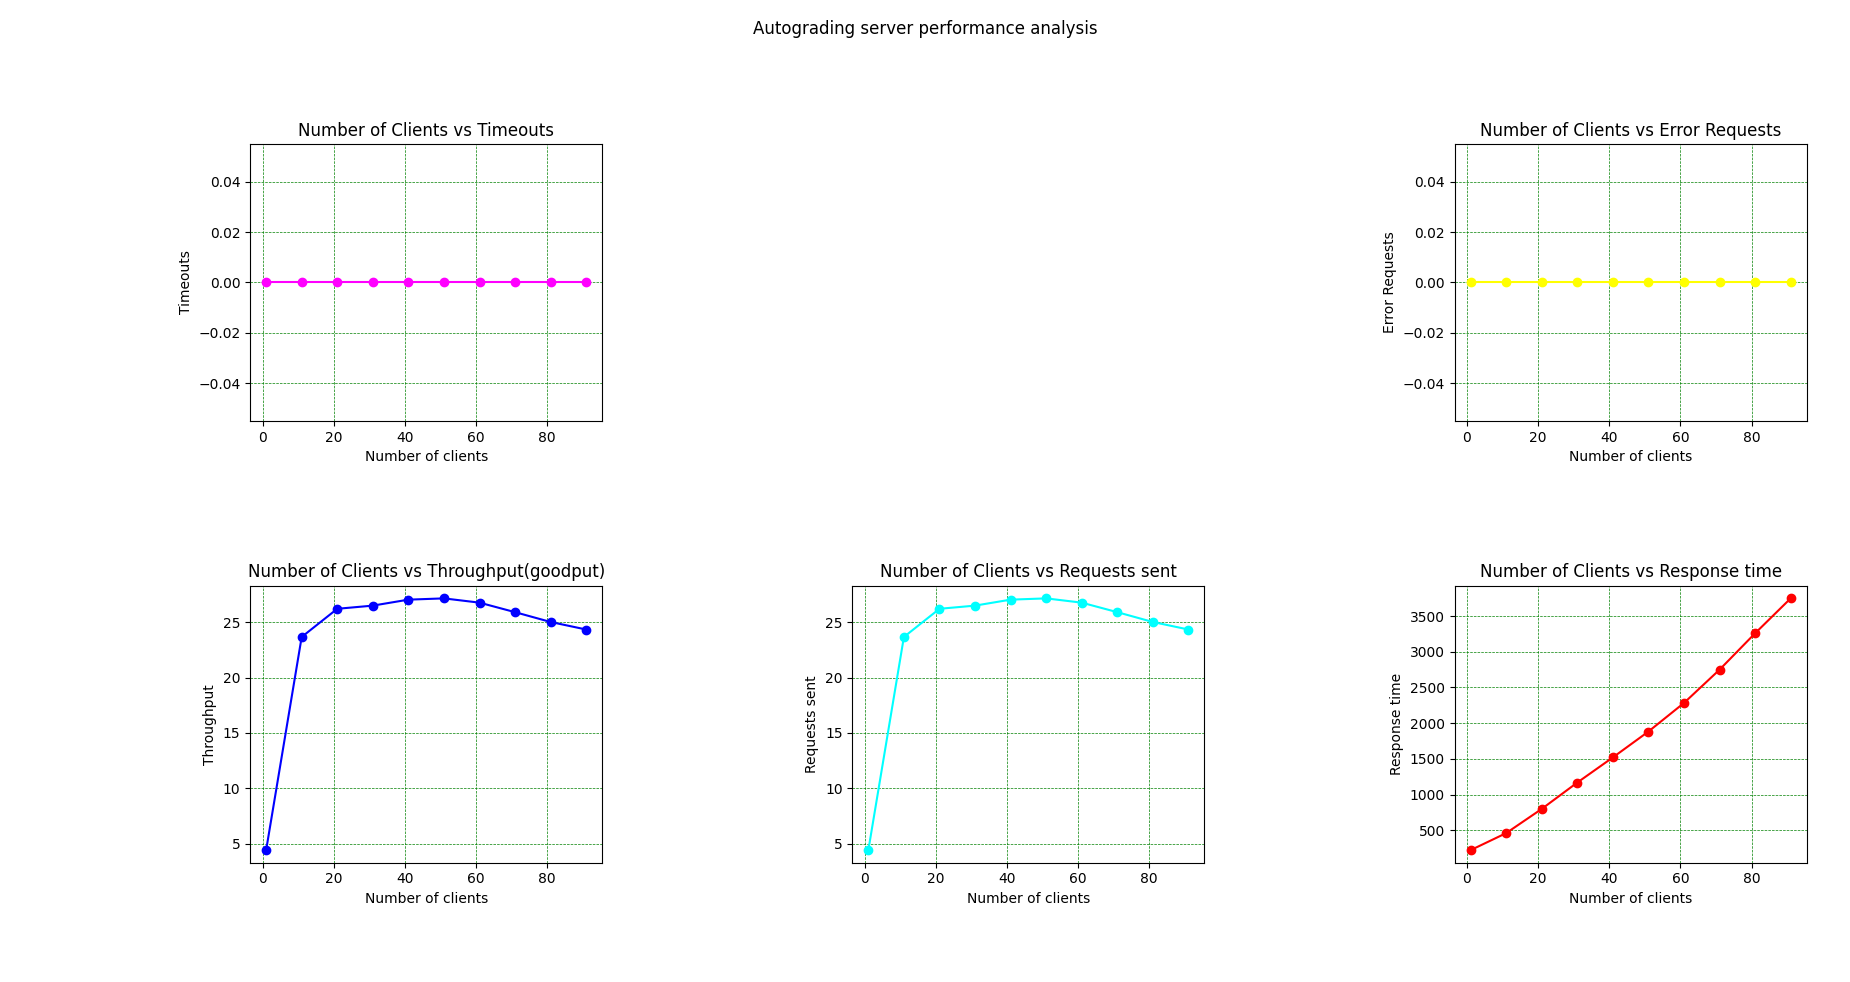
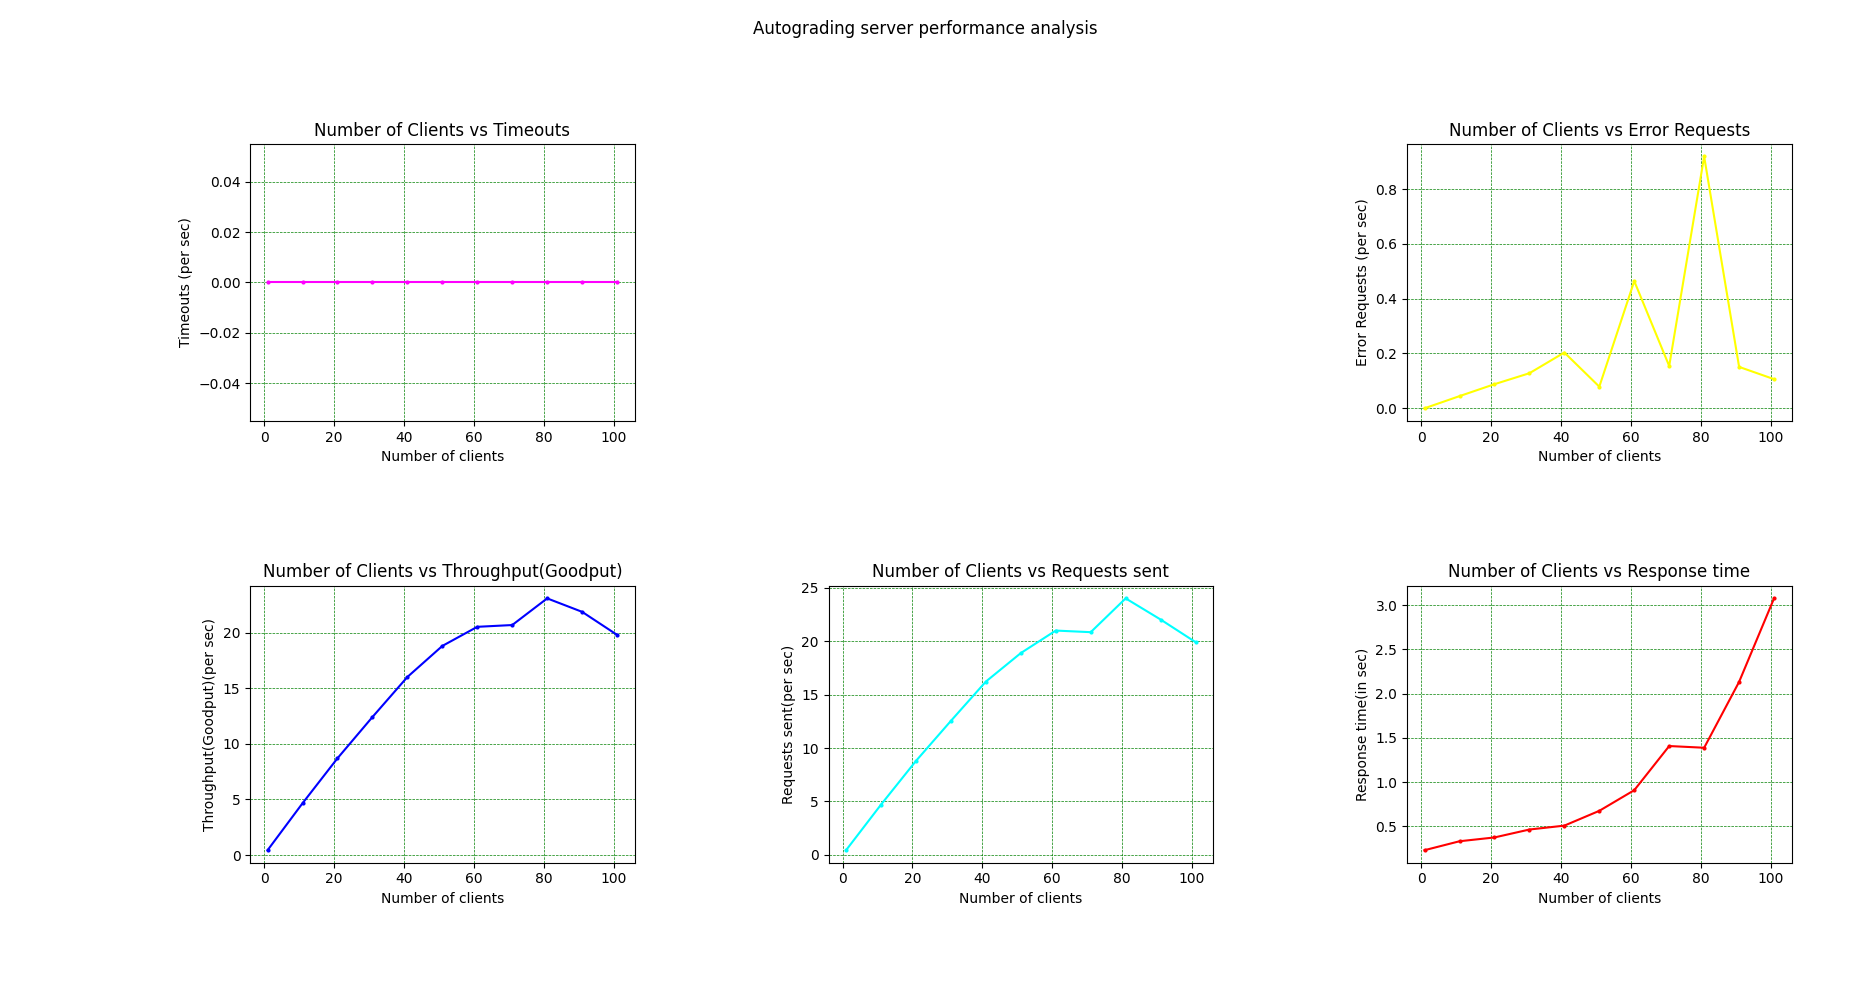
Added performance test graphs

diff --git a/README.md b/README.md
@@ -21,7 +21,7 @@ cd server_side/
 #Performance Test on client side
 Checkout to Autograder_branch_version to be tested
 git branch -a	 		(to check all branch names)
-git checkout Autograder_V2	(checkout to version1)
+git checkout Autograder_V2	(checkout to version2)
 
 Client side: cd client_side/
 	     make
@@ -37,8 +37,8 @@ python3 plot_client_stats.py
 
 ########## JUST GIVE BELOW MENTIONED VALUES, DON'T HIT ENTER ################
 Enter minimum clients:  1
-Enter maximum clients:  50
-Enter steps	     :  5
+Enter maximum clients:  100
+Enter steps	     :  10
 
 
 #Start the server
